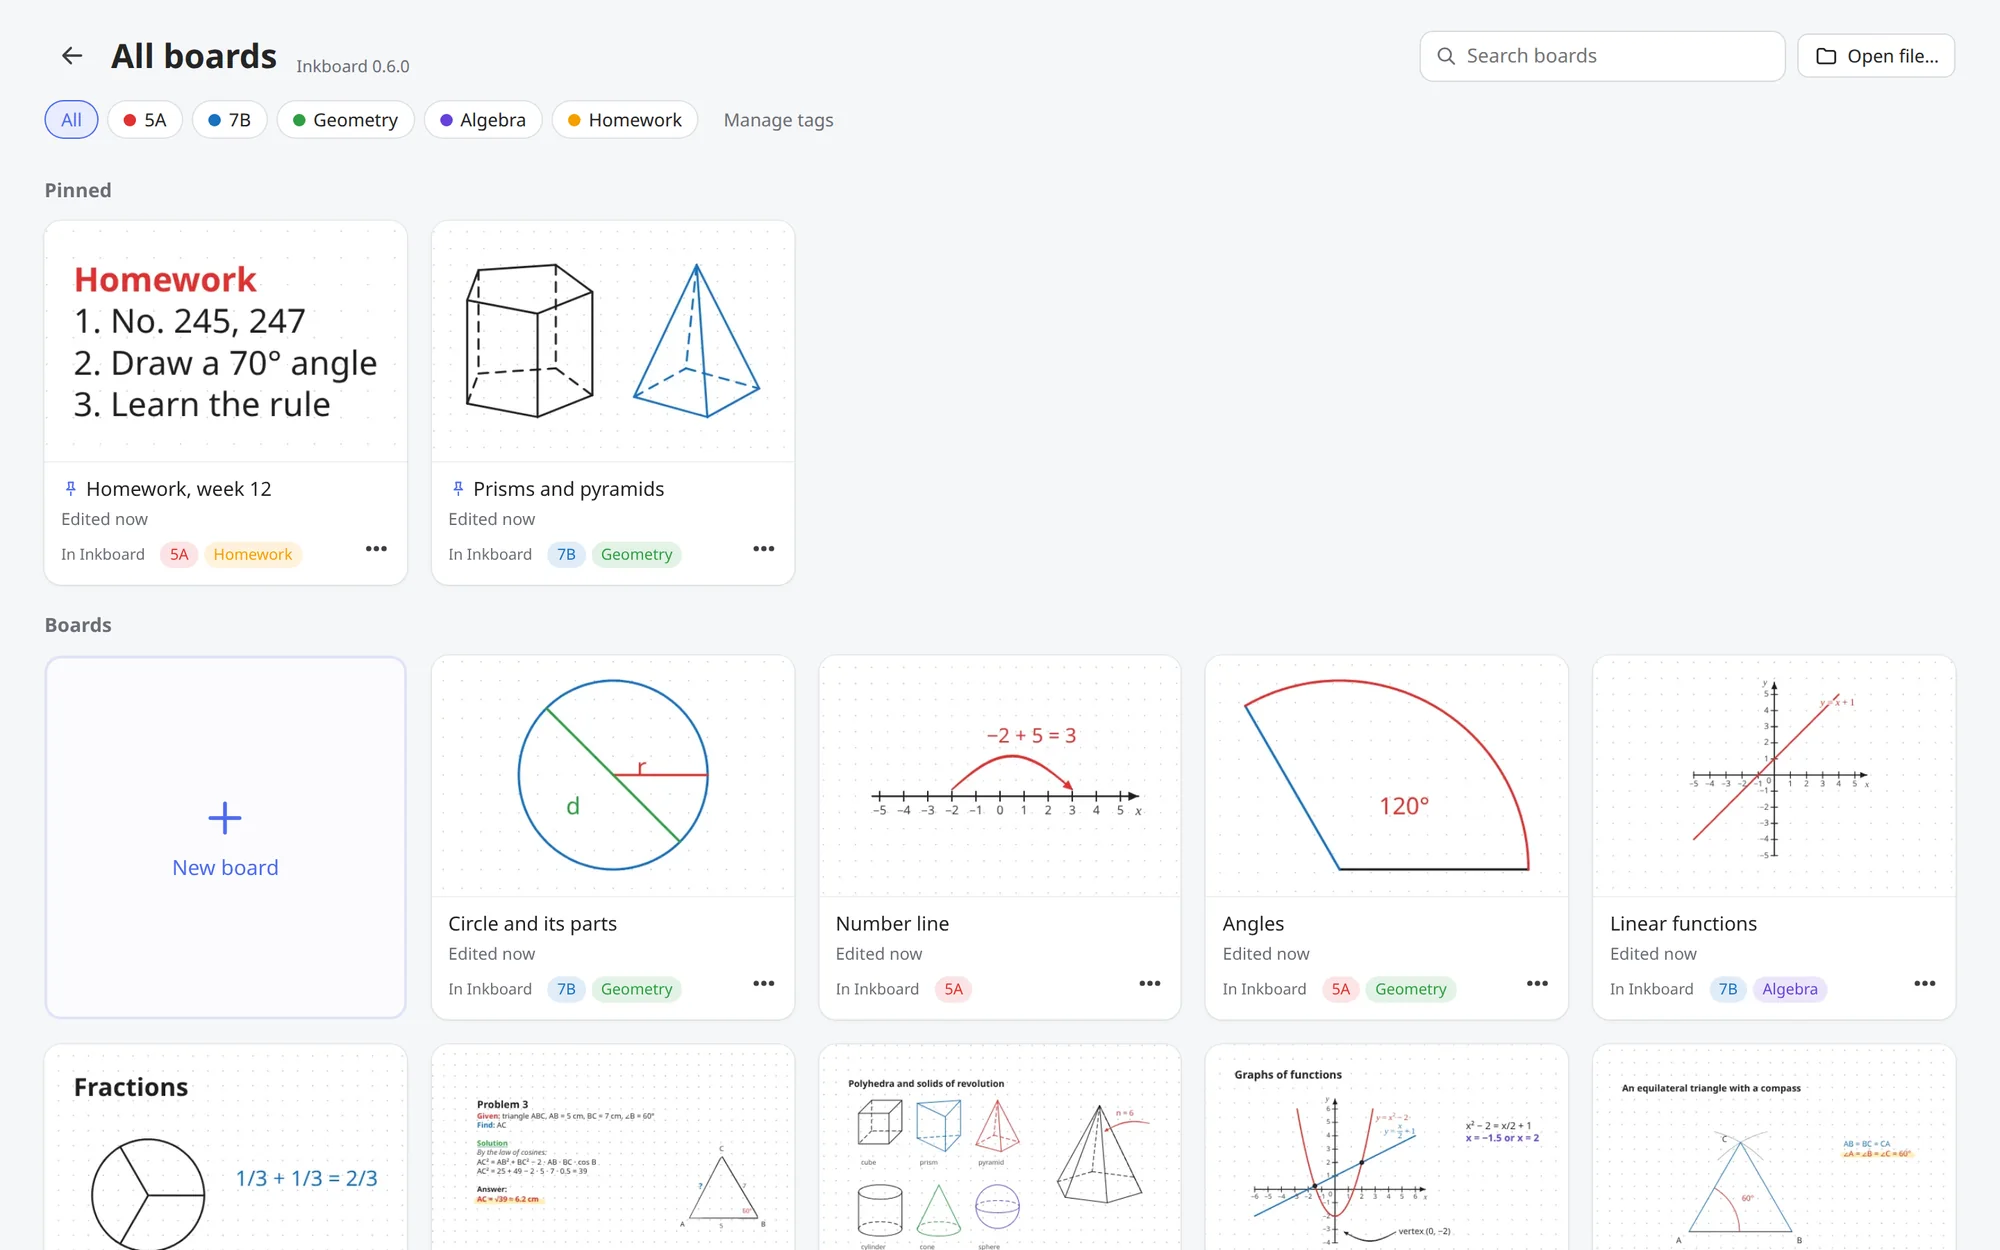
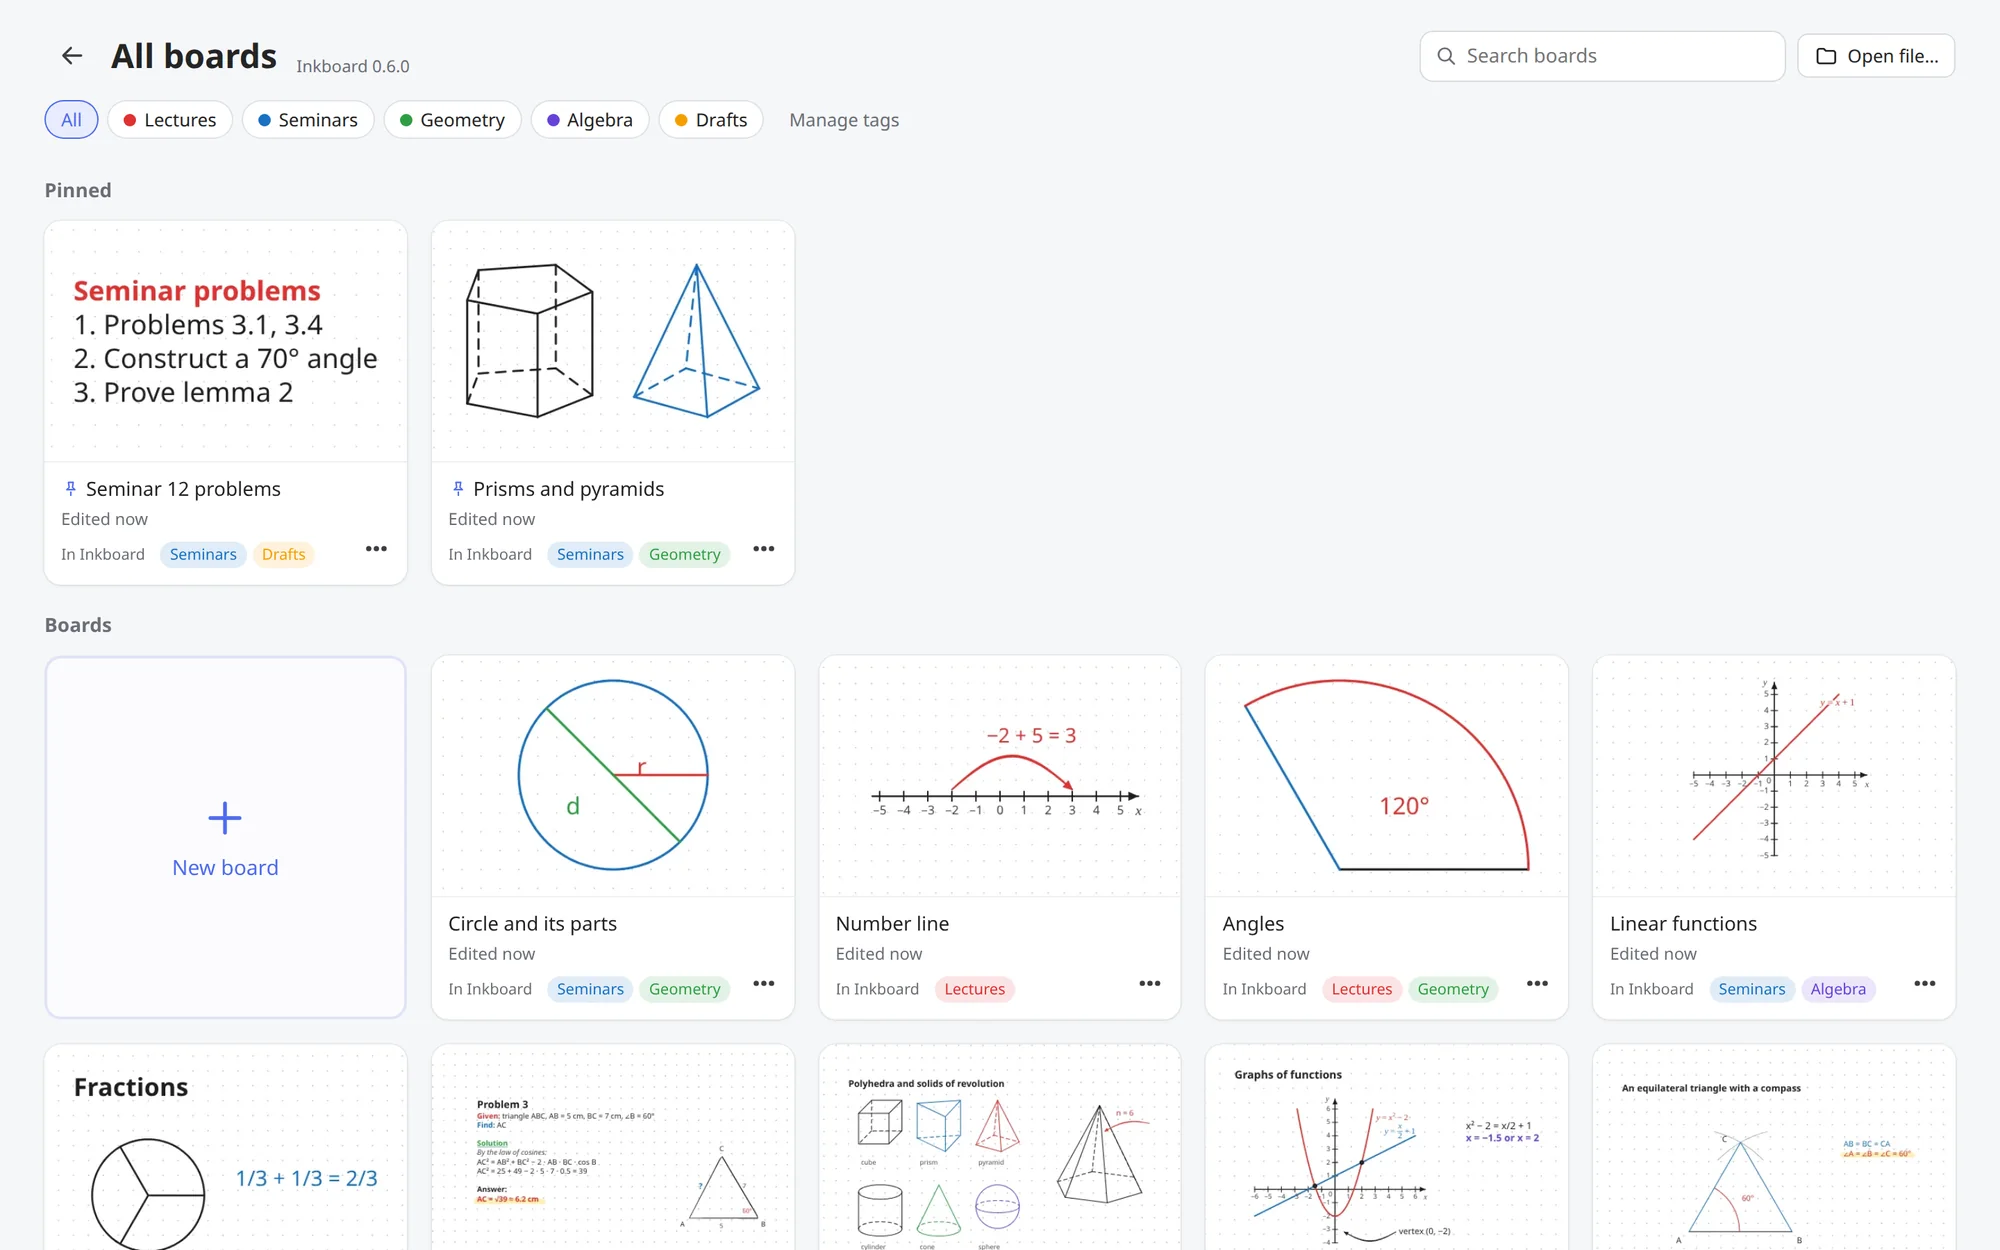
Site: talk about explaining in general, not school lessons
Copy and screenshots no longer assume a school: no lessons, pupils or class
tags. Boards are named Geometry / Compass constructions; tags are lectures,
seminars, subjects and drafts.

diff --git a/index.html b/index.html
@@ -4,13 +4,13 @@
 <meta charset="utf-8">
 <meta name="viewport" content="width=device-width, initial-scale=1">
 <title>Inkboard: безкоштовна дошка для графічного планшета</title>
-<meta name="description" content="Безкоштовна нескінченна дошка для вчителів і графічних планшетів: перо з натиском, транспортир і циркуль, графіки функцій, об’ємні фігури, текст. Зберігає все саме, навіть коли зникає світло. Windows, macOS, Linux.">
+<meta name="description" content="Безкоштовна нескінченна дошка для графічного планшета: для пояснень, лекцій і конспектів. Перо з натиском, транспортир і циркуль, графіки функцій, об’ємні фігури, текст. Зберігає все саме, навіть коли зникає світло. Windows, macOS, Linux.">
 <meta property="og:title" content="Inkboard: free whiteboard for pen tablets">
 <meta property="og:description" content="Infinite canvas, pressure-sensitive ink, protractor and compass, function graphs, 3D solids and text. Free and open source for Windows, macOS and Linux.">
 <meta property="og:image" content="https://yaroslavyushchenko.github.io/inkboard/img/social-preview.png">
 <meta property="og:image:width" content="1280">
 <meta property="og:image:height" content="640">
-<meta property="og:image:alt" content="Inkboard, a free whiteboard for teachers with a pen tablet">
+<meta property="og:image:alt" content="Inkboard, a free infinite whiteboard for pen tablets">
 <meta property="og:url" content="https://yaroslavyushchenko.github.io/inkboard/">
 <meta property="og:site_name" content="Inkboard">
 <meta property="og:type" content="website">
@@ -379,8 +379,8 @@
       </div>
       <div class="stage">
         <div class="window" id="window">
-          <img data-only="uk" src="img/hero-uk.webp" width="2000" height="1250" alt="Inkboard: дошка «Геометрія, урок 14» з транспортиром, шестикутною пірамідою і колом, накресленим циркулем на координатній площині">
-          <img data-only="en" src="img/hero-en.webp" width="2000" height="1250" loading="lazy" alt="Inkboard: the board “Geometry, lesson 14” with a protractor, a hexagonal pyramid and a circle drawn with the compass on a coordinate plane">
+          <img data-only="uk" src="img/hero-uk.webp" width="2000" height="1250" alt="Inkboard: дошка «Геометрія» з транспортиром, шестикутною пірамідою і колом, накресленим циркулем на координатній площині">
+          <img data-only="en" src="img/hero-en.webp" width="2000" height="1250" loading="lazy" alt="Inkboard: the board “Geometry” with a protractor, a hexagonal pyramid and a circle drawn with the compass on a coordinate plane">
         </div>
       </div>
     </div>
@@ -391,7 +391,7 @@
       <div class="ex-head">
         <div class="rv">
           <p class="eyebrow" data-i18n="ex.kicker">Приклади</p>
-          <h2 data-i18n="ex.title">Так виглядає урок</h2>
+          <h2 data-i18n="ex.title">Як це виглядає</h2>
           <p class="sub" data-i18n="ex.sub">Справжні знімки екрана Inkboard, без монтажу.</p>
         </div>
         <div class="seg rv d1" id="ex-tabs" role="tablist" aria-label="Приклади">
@@ -434,10 +434,10 @@
         </figure>
         <figure>
           <div class="frame">
-            <img data-only="uk" src="img/ex-home-uk.webp" width="2000" height="1250" loading="lazy" alt="Екран «Усі дошки»: прев’ю дощок, теги класів і тем, закріплені дошки, пошук">
-            <img data-only="en" src="img/ex-home-en.webp" width="2000" height="1250" loading="lazy" alt="The All boards screen: board previews, class and topic tags, pinned boards, search">
+            <img data-only="uk" src="img/ex-home-uk.webp" width="2000" height="1250" loading="lazy" alt="Екран «Усі дошки»: прев’ю дощок, теги предметів і тем, закріплені дошки, пошук">
+            <img data-only="en" src="img/ex-home-en.webp" width="2000" height="1250" loading="lazy" alt="The All boards screen: board previews, subject and topic tags, pinned boards, search">
           </div>
-          <figcaption><h3 data-i18n="ex.h5">Усі дошки</h3><p data-i18n="ex.c5">Прев’ю кожної дошки, кольорові теги для класів і тем, пошук, закріплені дошки й кошик на 30 днів.</p></figcaption>
+          <figcaption><h3 data-i18n="ex.h5">Усі дошки</h3><p data-i18n="ex.c5">Прев’ю кожної дошки, кольорові теги для предметів і тем, пошук, закріплені дошки й кошик на 30 днів.</p></figcaption>
         </figure>
       </div>
     </div>
@@ -448,7 +448,7 @@
       <div class="rv">
         <p class="eyebrow" data-i18n="f.kicker">Можливості</p>
         <h2 data-i18n="f.title">Зроблено для пера, а не для мишки</h2>
-        <p class="sub" data-i18n="f.sub">Inkboard з’явився для вчительки з планшетом Wacom, якій бракувало Microsoft Whiteboard. Тепер він для всіх.</p>
+        <p class="sub" data-i18n="f.sub">Для пояснень, лекцій, конспектів і чернеток: усе, що зручніше показати рукою, ніж мишкою.</p>
       </div>
       <div class="bento">
         <div class="tile wide rv">
@@ -501,7 +501,7 @@
             <text x="287" y="68" text-anchor="middle" font-family="Manrope, sans-serif" font-weight="800" font-size="20" fill="var(--accent)">PDF</text>
           </svg></div>
           <h3 data-i18n="f.exp.t">Експорт у PNG і PDF</h3>
-          <p data-i18n="f.exp.d">Роздайте учням конспект уроку або надрукуйте його. Без акаунта й без хмари: дошки лишаються на вашому комп’ютері.</p>
+          <p data-i18n="f.exp.d">Поділіться конспектом або надрукуйте його. Без акаунта й без хмари: дошки лишаються на вашому комп’ютері.</p>
         </div>
       </div>
     </div>
@@ -619,7 +619,7 @@
 
   <section class="final">
     <div class="wrap rv">
-      <h2 data-i18n="cta.title">Спробуйте на наступному уроці</h2>
+      <h2 data-i18n="cta.title">Почніть малювати вже сьогодні</h2>
       <a class="btn primary" href="#download">
         <svg viewBox="0 0 24 24" fill="none" stroke="currentColor" stroke-width="2.2" stroke-linecap="round" stroke-linejoin="round" aria-hidden="true"><path d="M12 4v11m0 0l-4.5-4.5M12 15l4.5-4.5M5 20h14"/></svg>
         <span class="p-label" data-i18n="hero.download">Завантажити</span>
@@ -654,7 +654,7 @@
     'hero.free': 'free, forever',
     'hero.for': 'For',
     'ex.kicker': 'Examples',
-    'ex.title': 'What a lesson looks like',
+    'ex.title': 'What it looks like',
     'ex.sub': 'Real screenshots of Inkboard, not mockups.',
     'ex.t1': 'Geometry', 'ex.t2': 'Graphs', 'ex.t3': '3D solids', 'ex.t4': 'Text', 'ex.t5': 'All boards',
     'ex.h1': 'Protractor and compass',
@@ -666,10 +666,10 @@
     'ex.h4': 'Formatted text',
     'ex.c4': 'Type right on the board. Make single words bold, italic, or a different colour or size.',
     'ex.h5': 'All boards',
-    'ex.c5': 'A preview of every board, colour tags for classes and topics, search, pinned boards and a 30-day bin.',
+    'ex.c5': 'A preview of every board, colour tags for subjects and topics, search, pinned boards and a 30-day bin.',
     'f.kicker': 'Features',
     'f.title': 'Made for a pen, not a mouse',
-    'f.sub': 'Inkboard started for a teacher with a Wacom tablet who missed Microsoft Whiteboard. Now it’s for everyone.',
+    'f.sub': 'For explanations, lectures, notes and rough work: anything that’s easier to show by hand than with a mouse.',
     'f.ink.t': 'Pressure-sensitive pen',
     'f.ink.d': 'Press harder for a thicker line. Lines are vector and stay sharp at any zoom, and your palm on the screen doesn’t draw.',
     'f.wacom.t': 'Wacom and other tablets',
@@ -684,7 +684,7 @@
     'f.lang.t': 'English and Ukrainian',
     'f.lang.d': 'The interface speaks both; switch in Settings.',
     'f.exp.t': 'Export to PNG and PDF',
-    'f.exp.d': 'Share the lesson notes with students or print them. No account and no cloud: your boards stay on your computer.',
+    'f.exp.d': 'Share your notes or print them. No account and no cloud: your boards stay on your computer.',
     's.kicker': 'Reliability',
     's.title': 'Power cut? The board is still there',
     's.sub': 'There’s no Save button because you don’t need one. Inkboard writes every board to disk by itself, safely, and keeps earlier versions.',
@@ -732,7 +732,7 @@
     'why.1': 'All the code is open: <a href="https://github.com/yaroslavyushchenko/inkboard">github.com/yaroslavyushchenko/inkboard</a>.',
     'why.2': 'The download files are built publicly by GitHub Actions straight from that code.',
     'why.3': 'The app collects no data and only goes online to check GitHub for updates.',
-    'cta.title': 'Try it in your next lesson',
+    'cta.title': 'Start drawing today',
     'cta.hand': 'no account, no ads, no subscription',
     'foot.license': 'free software under the GPL-3.0',
     'foot.code': 'Source code',
